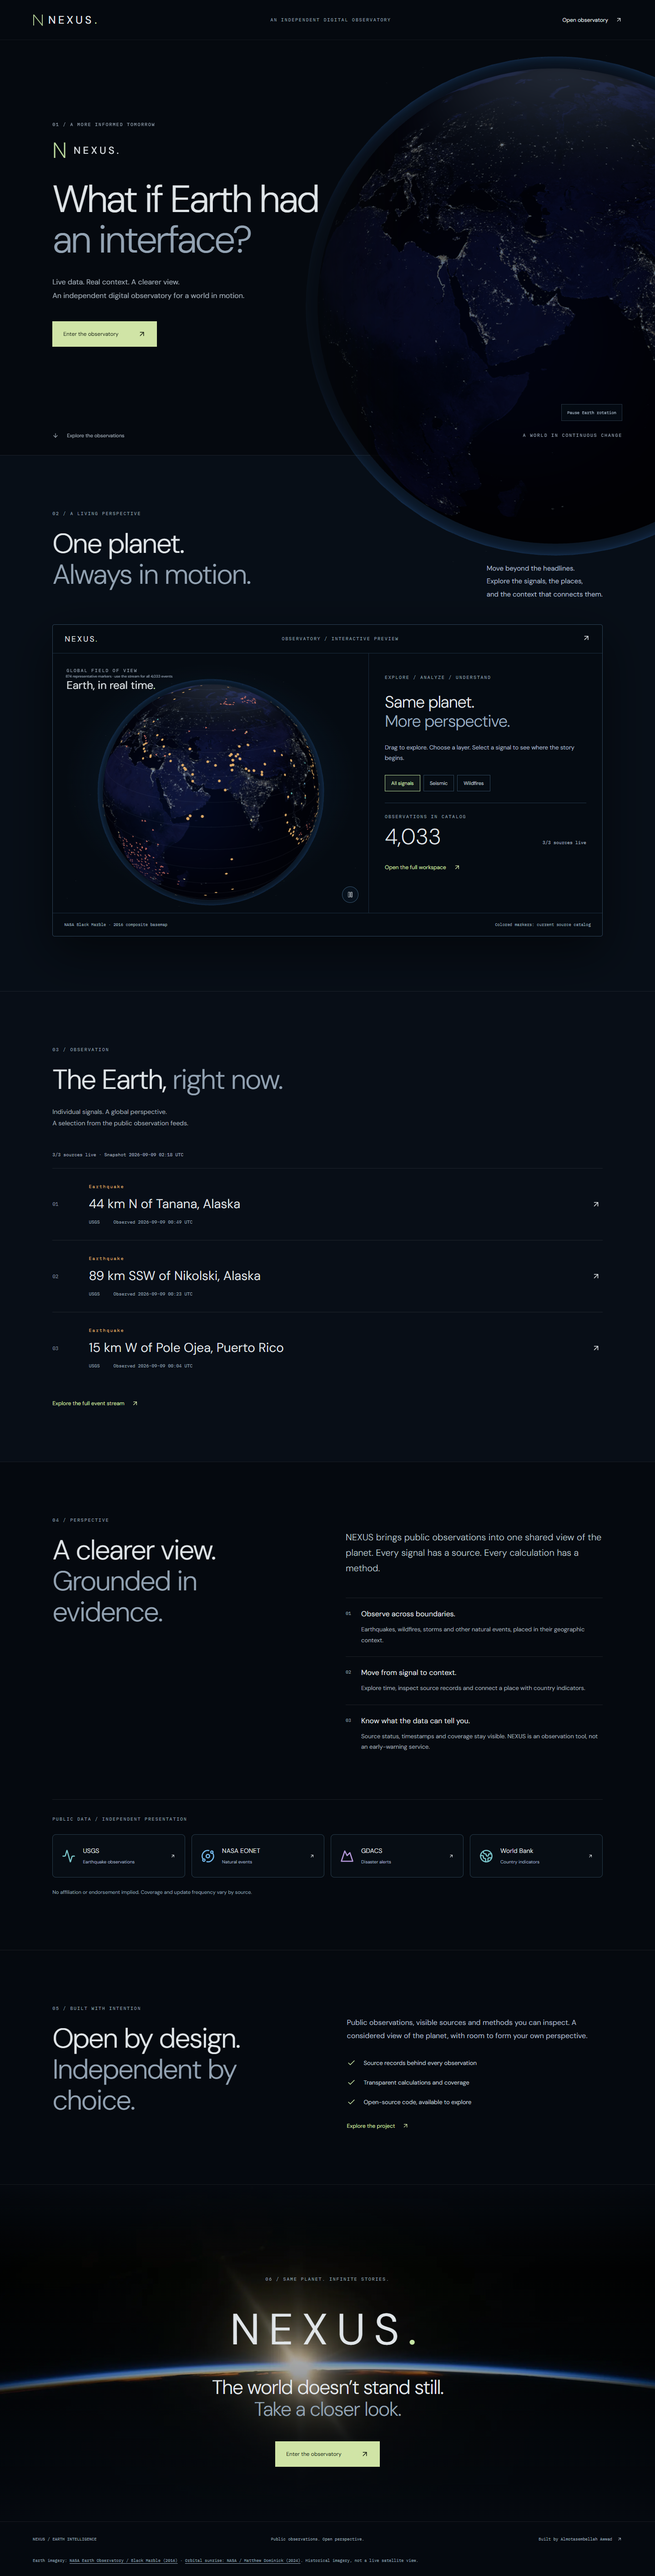
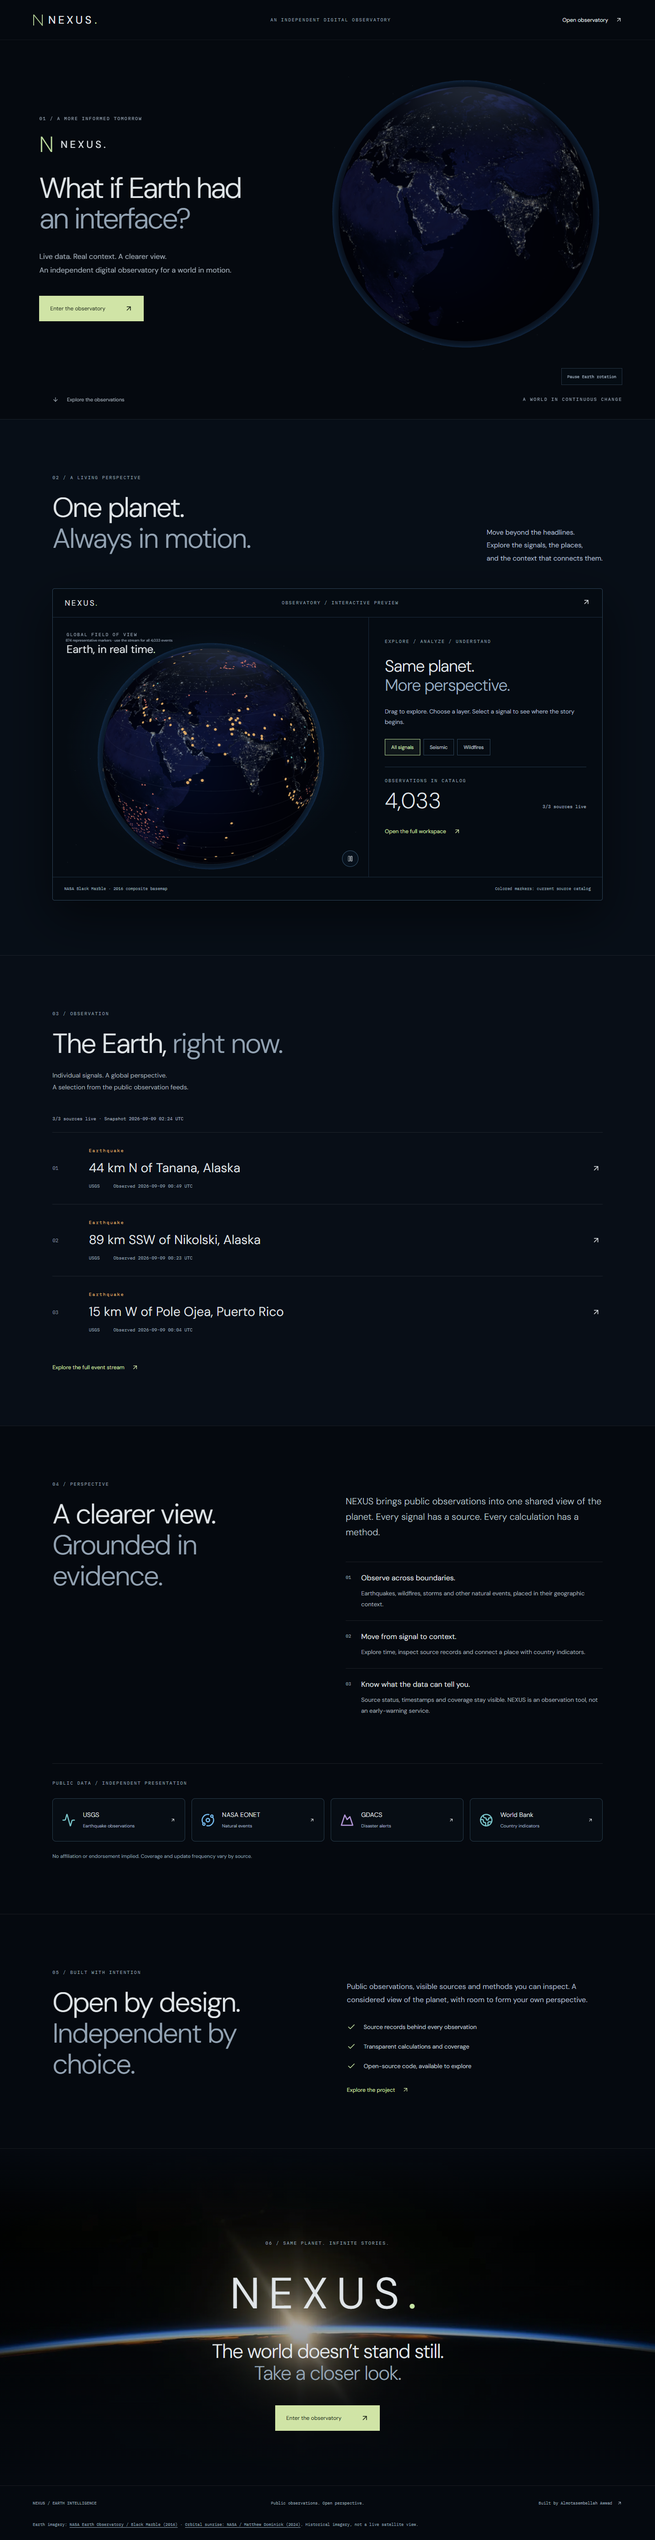
Contain hero Earth and verify responsive composition in browser

diff --git a/src/app/landing.css b/src/app/landing.css
@@ -391,21 +391,40 @@
   line-height: 1;
 }
 .landing .landing-hero {
-  min-height: 790px;
-  height: calc(100svh - 88px);
-  padding-top: 60px;
+  display: grid;
+  grid-template-columns: minmax(0, 1fr) minmax(0, 1.1fr);
+  gap: 40px;
+  min-height: 720px;
+  height: auto;
+  padding: 70px 6% 120px;
+  overflow: clip;
+}
+.landing .landing-hero-copy {
+  grid-column: 1;
+  grid-row: 1;
+  min-width: 0;
 }
 .landing .landing-hero h1 {
-  font-size: clamp(56px, 5.8vw, 94px);
+  font-size: clamp(48px, 4.4vw, 76px);
   max-width: 850px;
   line-height: 1.07;
 }
 .landing .landing-earth {
-  width: 86%;
-  height: 132%;
-  right: -29%;
-  top: 0;
-  mask-image: linear-gradient(90deg, transparent, black 22%, black 88%, transparent);
+  position: relative;
+  grid-column: 2;
+  grid-row: 1;
+  width: 100%;
+  height: auto;
+  aspect-ratio: 1;
+  max-width: 680px;
+  justify-self: center;
+  inset: auto;
+  z-index: 0;
+  opacity: 1;
+  mask-image: none;
+}
+.landing .landing-earth .globe-canvas {
+  inset: 0;
 }
 .hero-motion {
   position: absolute;
@@ -730,26 +749,30 @@
     gap: 15px;
   }
   .landing .landing-earth {
-    width: 150%;
-    height: 650px;
-    right: -40%;
-    top: auto;
-    bottom: -130px;
-    mask-image: linear-gradient(180deg, transparent, black 20%, black 85%, transparent);
+    grid-column: 1;
+    grid-row: 2;
+    width: 100%;
+    height: auto;
+    max-width: 520px;
+    inset: auto;
+    mask-image: none;
   }
   .landing .landing-hero {
-    min-height: 950px;
+    grid-template-columns: minmax(0, 1fr);
+    gap: 16px;
+    min-height: 0;
     height: auto;
-    padding: 45px 7% 430px;
+    max-height: none;
+    padding: 42px 7% 110px;
   }
   .landing .landing-hero h1 {
-    font-size: 53px;
+    font-size: clamp(42px, 7.5vw, 60px);
   }
   .hero-wordmark {
     margin: 25px 0;
   }
   .hero-motion {
-    bottom: 70px;
+    bottom: 60px;
     right: 7%;
   }
   .landing .landing-sources a {
@@ -767,5 +790,23 @@
   }
   .landing-credits {
     padding: 0 7% 25px;
+  }
+}
+@media (min-width: 701px) and (max-width: 1000px) {
+  .landing .landing-hero {
+    grid-template-columns: minmax(0, 1fr);
+    padding: 50px 8% 120px;
+    max-height: none;
+  }
+  .landing .landing-earth {
+    grid-column: 1;
+    grid-row: 2;
+    max-width: 520px;
+  }
+  .landing .landing-hero-copy {
+    max-width: 640px;
+  }
+  .landing .landing-hero h1 {
+    font-size: 64px;
   }
 }

diff --git a/tests/e2e/workspace.spec.ts b/tests/e2e/workspace.spec.ts
@@ -118,6 +118,33 @@ test('landing handles unavailable feeds and mobile layout without blocking entry
   await page.getByRole('link', { name: 'Open observatory' }).click();
   await expect(page).toHaveURL(/\/live$/);
 });
+test('hero Earth stays inside its section and clear of the copy at responsive sizes', async ({
+  page,
+}) => {
+  await page.route('**/api/events', (route) => route.fulfill({ json: fixture() }));
+  await page.goto('/');
+  for (const width of [390, 768, 1024, 1440]) {
+    await page.setViewportSize({ width, height: 900 });
+    const bounds = await page.evaluate(() => {
+      const hero = document.querySelector('.landing-hero')!.getBoundingClientRect();
+      const earth = document.querySelector('.landing-earth')!.getBoundingClientRect();
+      const copy = document.querySelector('.landing-hero-copy')!.getBoundingClientRect();
+      return {
+        contained:
+          earth.left >= hero.left &&
+          earth.right <= hero.right &&
+          earth.top >= hero.top &&
+          earth.bottom <= hero.bottom,
+        overlaps:
+          earth.left < copy.right &&
+          earth.right > copy.left &&
+          earth.top < copy.bottom &&
+          earth.bottom > copy.top,
+      };
+    });
+    expect(bounds, `Hero bounds at ${width}px`).toEqual({ contained: true, overlaps: false });
+  }
+});
 test('globe, layer filters and reset agree with the event stream', async ({ page }) => {
   const errors: string[] = [];
   page.on('pageerror', (e) => errors.push(e.message));

diff --git a/src/components/Globe.tsx b/src/components/Globe.tsx
@@ -114,7 +114,7 @@ export default function Globe(props: GlobeProps) {
     });
     const earth = new THREE.Mesh(new THREE.SphereGeometry(1, 96, 64), material);
     scene.add(earth);
-    scene.add(new THREE.AmbientLight('#b7c7dc', propsRef.current.cinematic ? 0.35 : 1.5));
+    scene.add(new THREE.AmbientLight('#b7c7dc', propsRef.current.cinematic ? 1.1 : 1.5));
     const sun = new THREE.DirectionalLight('#d9e3ee', 1.7);
     sun.position.set(-3, 5, 4);
     scene.add(sun);
@@ -219,7 +219,7 @@ export default function Globe(props: GlobeProps) {
         material.color.set('#dce9ff');
         material.emissive.set('#7b8ba3');
         material.emissiveMap = texture;
-        material.emissiveIntensity = 0.32;
+      material.emissiveIntensity = propsRef.current.cinematic ? 0.5 : 0.32;
         material.needsUpdate = true;
         satelliteReady = true;
       },
